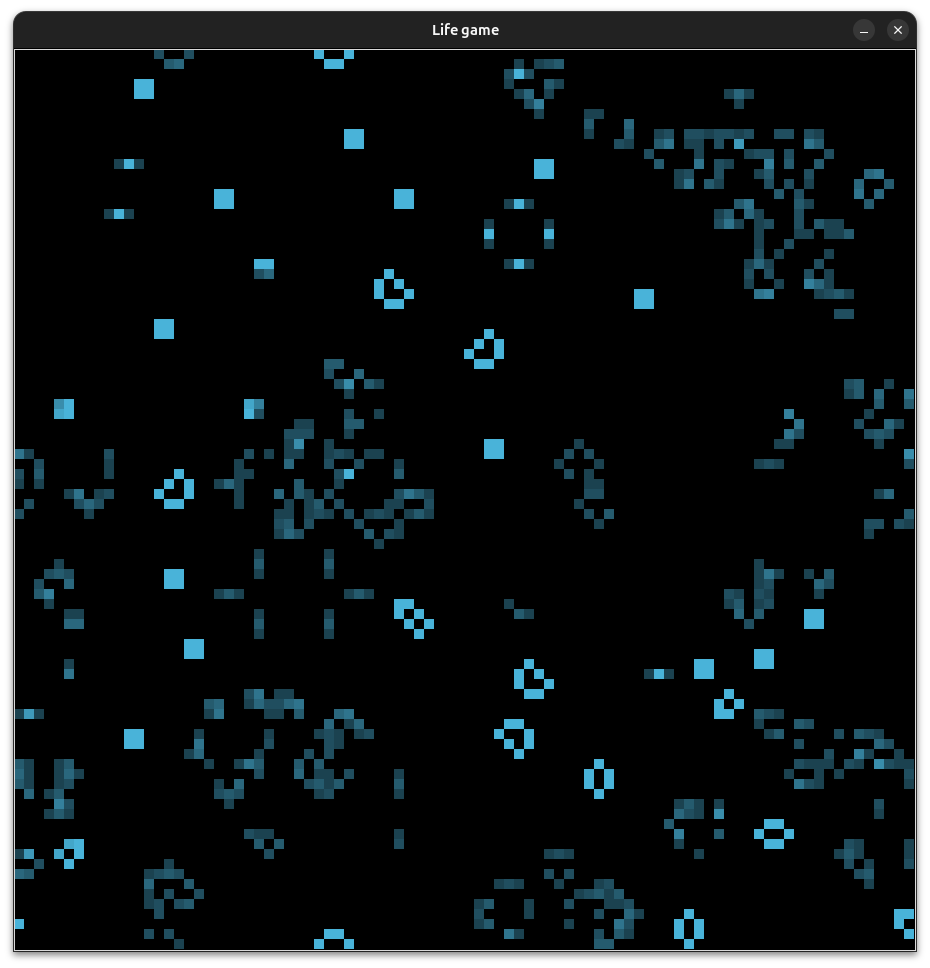
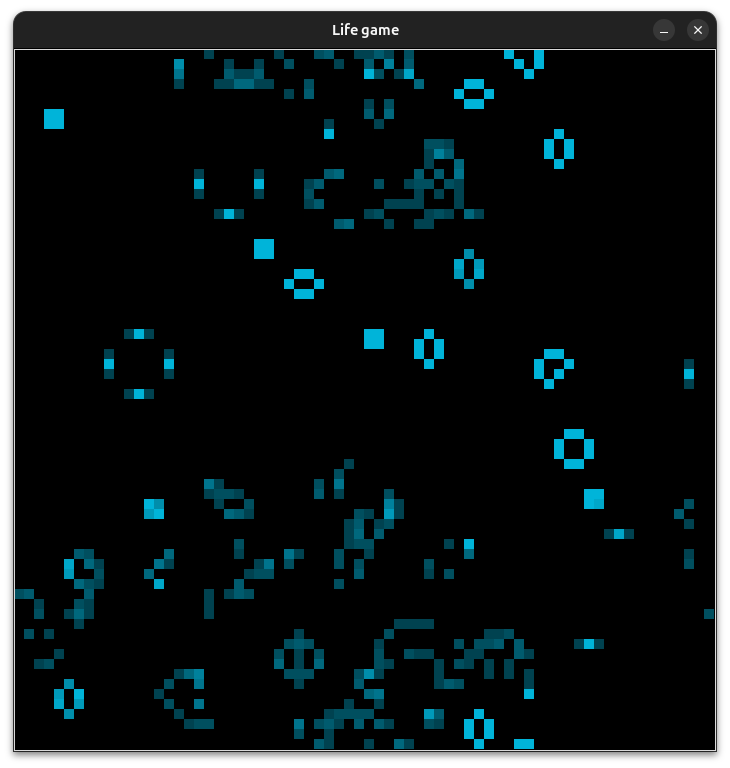
Update README.md and bug fixes

diff --git a/life_game.py b/life_game.py
@@ -21,7 +21,7 @@ class life_game:
 
     # Units of measurement - pixel
 
-    WIDTH, HEIGHT = 700, 500
+    WIDTH, HEIGHT = 700, 700
 
     CELL_SIZE: int = 10
     GRID_WIDTH: int = WIDTH // CELL_SIZE
@@ -65,7 +65,7 @@ class life_game:
                 i2 = i1 + life_game.CELL_SIZE
                 j2 = j1 + life_game.CELL_SIZE
                 
-                self._rectangles[i][j] = self._canvas.create_rectangle(i1, j1, i2, j2, fill=self._background_color, width=0)
+                self._rectangles[i][j] = self._canvas.create_rectangle(j1, i1, j2, i2, fill=self._background_color, width=0)
         self._canvas.pack()
 
         # Auxiliary window
